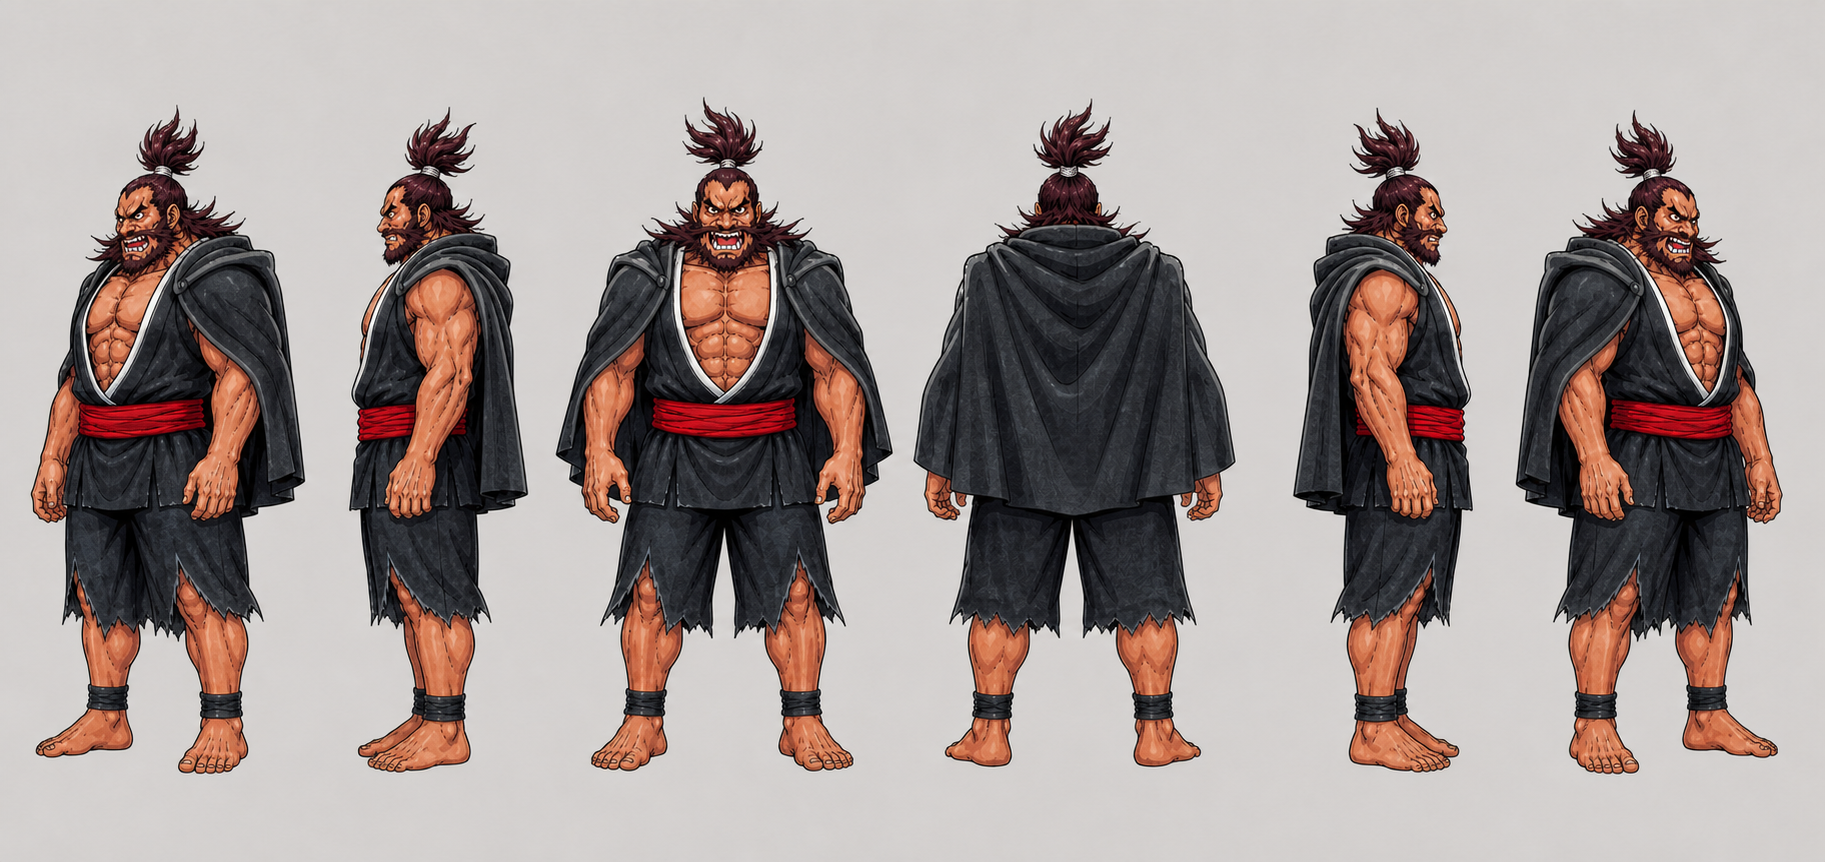
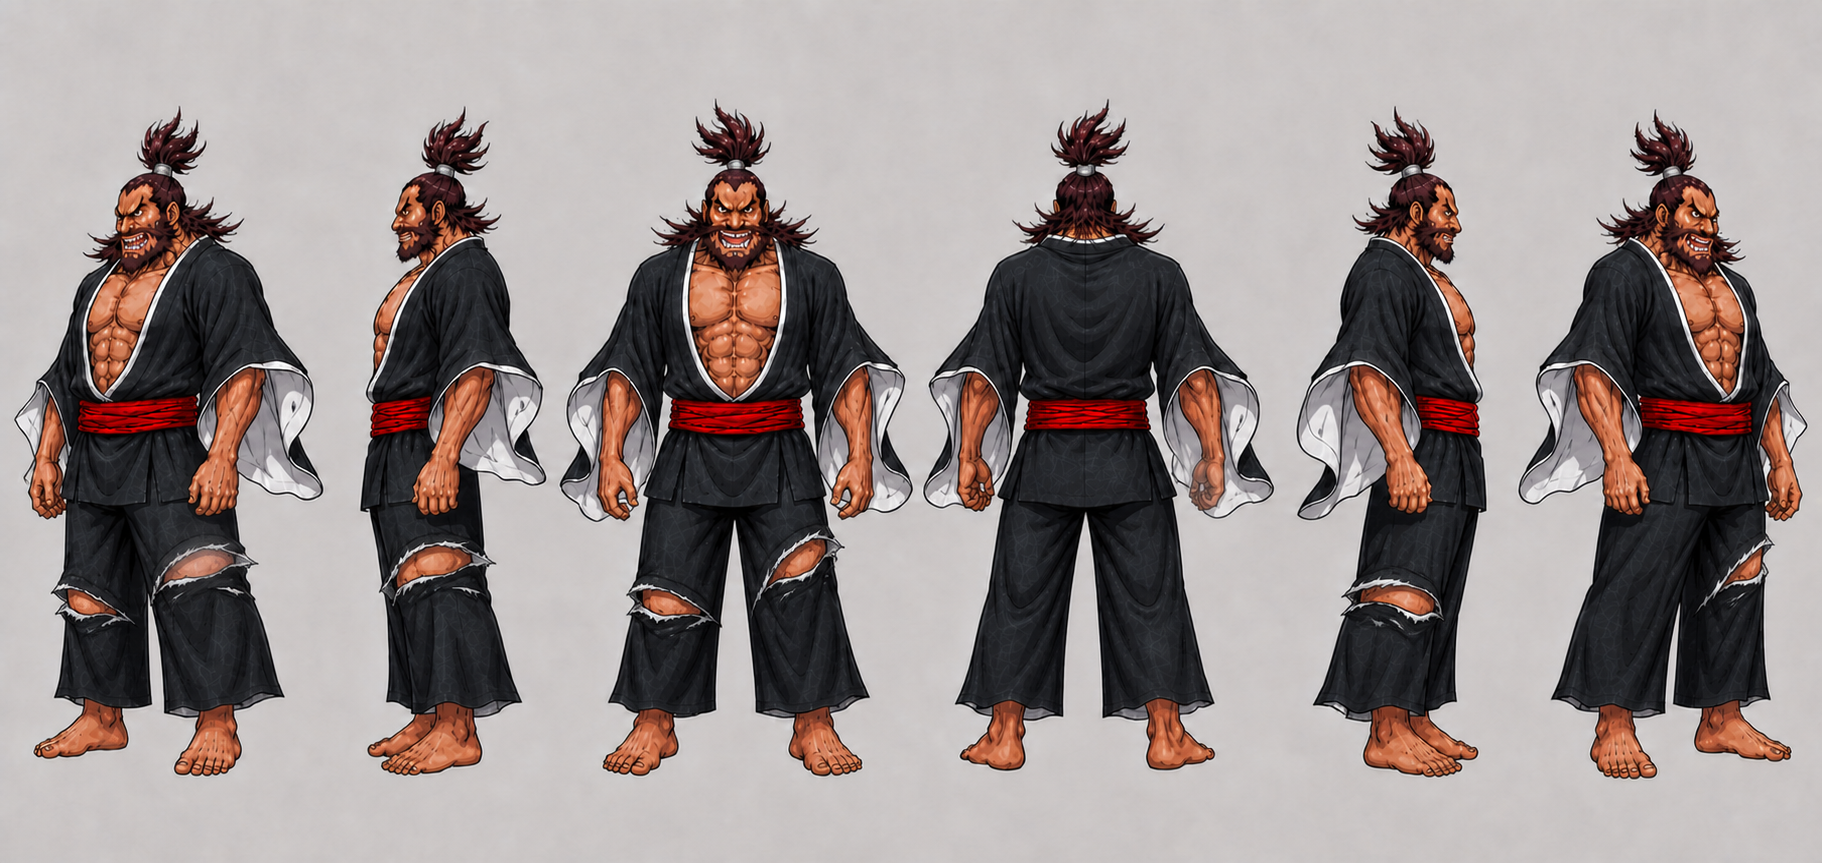
fix(character-022): 修正李逵服装与裤装设定
去除误判斗篷，恢复外黑内白的轻薄宽袖、长裤和裸足设计。

锁定右膝与左大腿的横向刀劈破洞，并保留返修提示、迭代备份与复核记录。

diff --git a/character-model-sheets/characters/022/review-notes.md b/character-model-sheets/characters/022/review-notes.md
@@ -1,6 +1,6 @@
 # 022 新版六视图生产复核
 
-- 状态：`generated`，人物六视图与所需独立实体均已生成并通过全量复核；未标记为 `approved`。
+- 状态：`generated`，已收到人物服装定向返修意见；未标记为 `approved`。
 - 需交付：人物六视图；武器／标志道具。
 
 ## 人物六视图
@@ -10,6 +10,16 @@
 - [x] 六个全身视角同高、同基线、无裁切，身份、服装、纹样和配色一致。
 - [x] 非对称结构固定在同一解剖侧与三维连接点，远侧按真实关系遮挡。
 - [x] 未见多余肢体、重复实体、融合道具、透视冲突、文字乱码或场景残留。
+- [x] 六个视图均完全没有斗篷，上衣明确为从肩部／袖笼连到肘部附近的宽袖，不与背部连成斗篷。
+- [x] 上衣与长裤均为外黑内白，白色只作为翻面或裂口内里可见。
+- [x] 六个视图均为长裤，不得出现短裤或裸露小腿。
+- [x] 角色自身右膝有且仅有一处刀劈裂口；角色自身左大腿有且仅有一处刀劈裂口，两处均不换边、不复制。
+- [x] 所有脚踝绑带已去掉，裤脚延伸到脚踝附近，双脚裸露。
+- [x] 上衣布料轻薄、柔软、飘逸，呈细长流动褶皱与柔和下垂，不像厚棉袍、皮革、毛毡或护甲。
+- [x] 六个视图的双袖口均为夸张放大的喇叭形开口，袖缘在肘部附近结束，清楚露出双侧小臂。
+- [x] 右膝破洞为偏横向、包住膝部前外侧的宽大弧形刀劈开口，而非细长竖向割口。
+- [x] 左大腿破洞为斜横向的宽大刀劈开口，含多个向侧面伸出的尖长三角破布瓣，而非细长竖向割口。
+- [x] 两处破洞均有较大露肤窗口、黑色破布瓣和明显翻出的白色内里，并严格保持右膝／左大腿的解剖锚点。
 
 ## 独立实体
 
@@ -21,3 +31,9 @@
 
 - 背面、远侧、内部与遮挡结构继续按 `inferred` 或 `unknown` 处理，不宣称为原作事实。
 - 旧版资产已保留为递增版本文件；当前主文件将用于新版交付。
+- 2026-08-21 用户纠正原图服装判读：去掉斗篷，改为外黑内白的极宽大袖；短裤改为外黑内白的长裤，锁定右膝与左大腿刀劈裂口，并去掉脚踝绑带。本轮只改人物设定图，武器表保持不变。
+- 2026-08-21 已完成服装重绘，并单独补画第五列纯右侧面的近侧右膝裂口；旧主图备份为 `character-turnaround-v2.png`，新主图保持 `generated` 等待用户批准。
+- 2026-08-21 用户认为现版上衣布料过厚，要求改为更轻薄飘逸的状态，进一步扩大袖口并露出小臂；本轮仅修改上衣，其余设计保持不变。
+- 2026-08-21 已完成轻薄飘逸布料、巨大喇叭形袖口与露小臂重绘；上一版主图备份为 `character-turnaround-v3.png`，当前主图保持 `generated` 等待用户批准。
+- 2026-08-21 用户提供原画局部截图，要求右膝与左大腿破洞从细长竖向割口改为宽大横向／斜横向破洞，并补足尖长黑色破布瓣、白色内里和露肤面积；本轮仅修改两处破洞样式。
+- 2026-08-21 已完成宽大横向破洞重绘，右膝／左大腿解剖锚点与真实遮挡通过复核；上一版主图备份为 `character-turnaround-v4.png`，当前主图保持 `generated` 等待用户批准。
